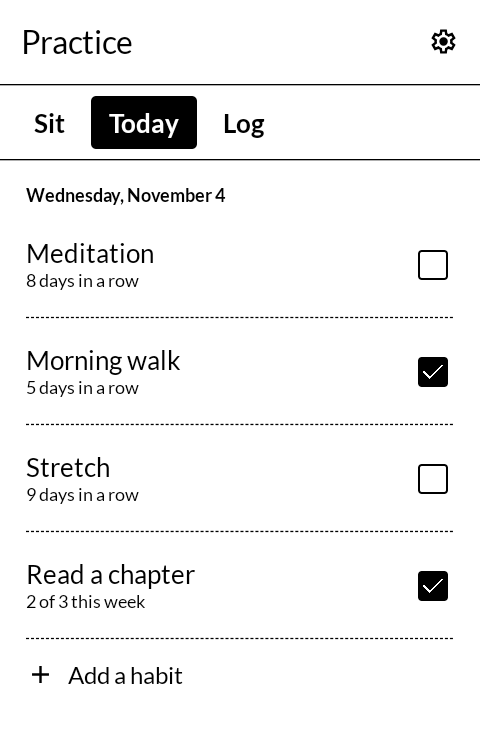
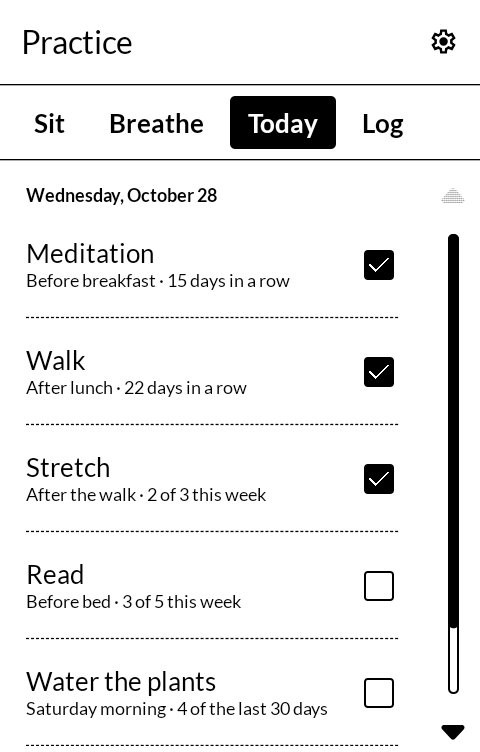
Screenshots: Practice 0.2.0

diff --git a/README.md b/README.md
@@ -15,8 +15,8 @@ ships with.
 
 | | |
 |---|---|
-| ![Setting a sitting: length, warm-up, interval bell](screenshots/1-sit.png) | ![Today's habits with their boxes](screenshots/2-today.png) |
-| ![Meditation's streak, totals and month of days](screenshots/3-history.png) | ![The log of sittings](screenshots/4-log.png) |
+| ![The Breathe tab set to 4-7-8: in, hold, out, three breaths a minute, five minutes, cued by vibration](screenshots/1-breathe.png) | ![Today's habits with their cue lines and streaks, three ticked and two still open](screenshots/2-today.png) |
+| ![A month of Walk: days done filled in, Sundays marked as rest days with a dash](screenshots/3-history.png) | ![The log: a sitting, a 4-7-8 breathing session, and a sitting added by hand with a note](screenshots/4-log.png) |
 
 ## Sitting
 
